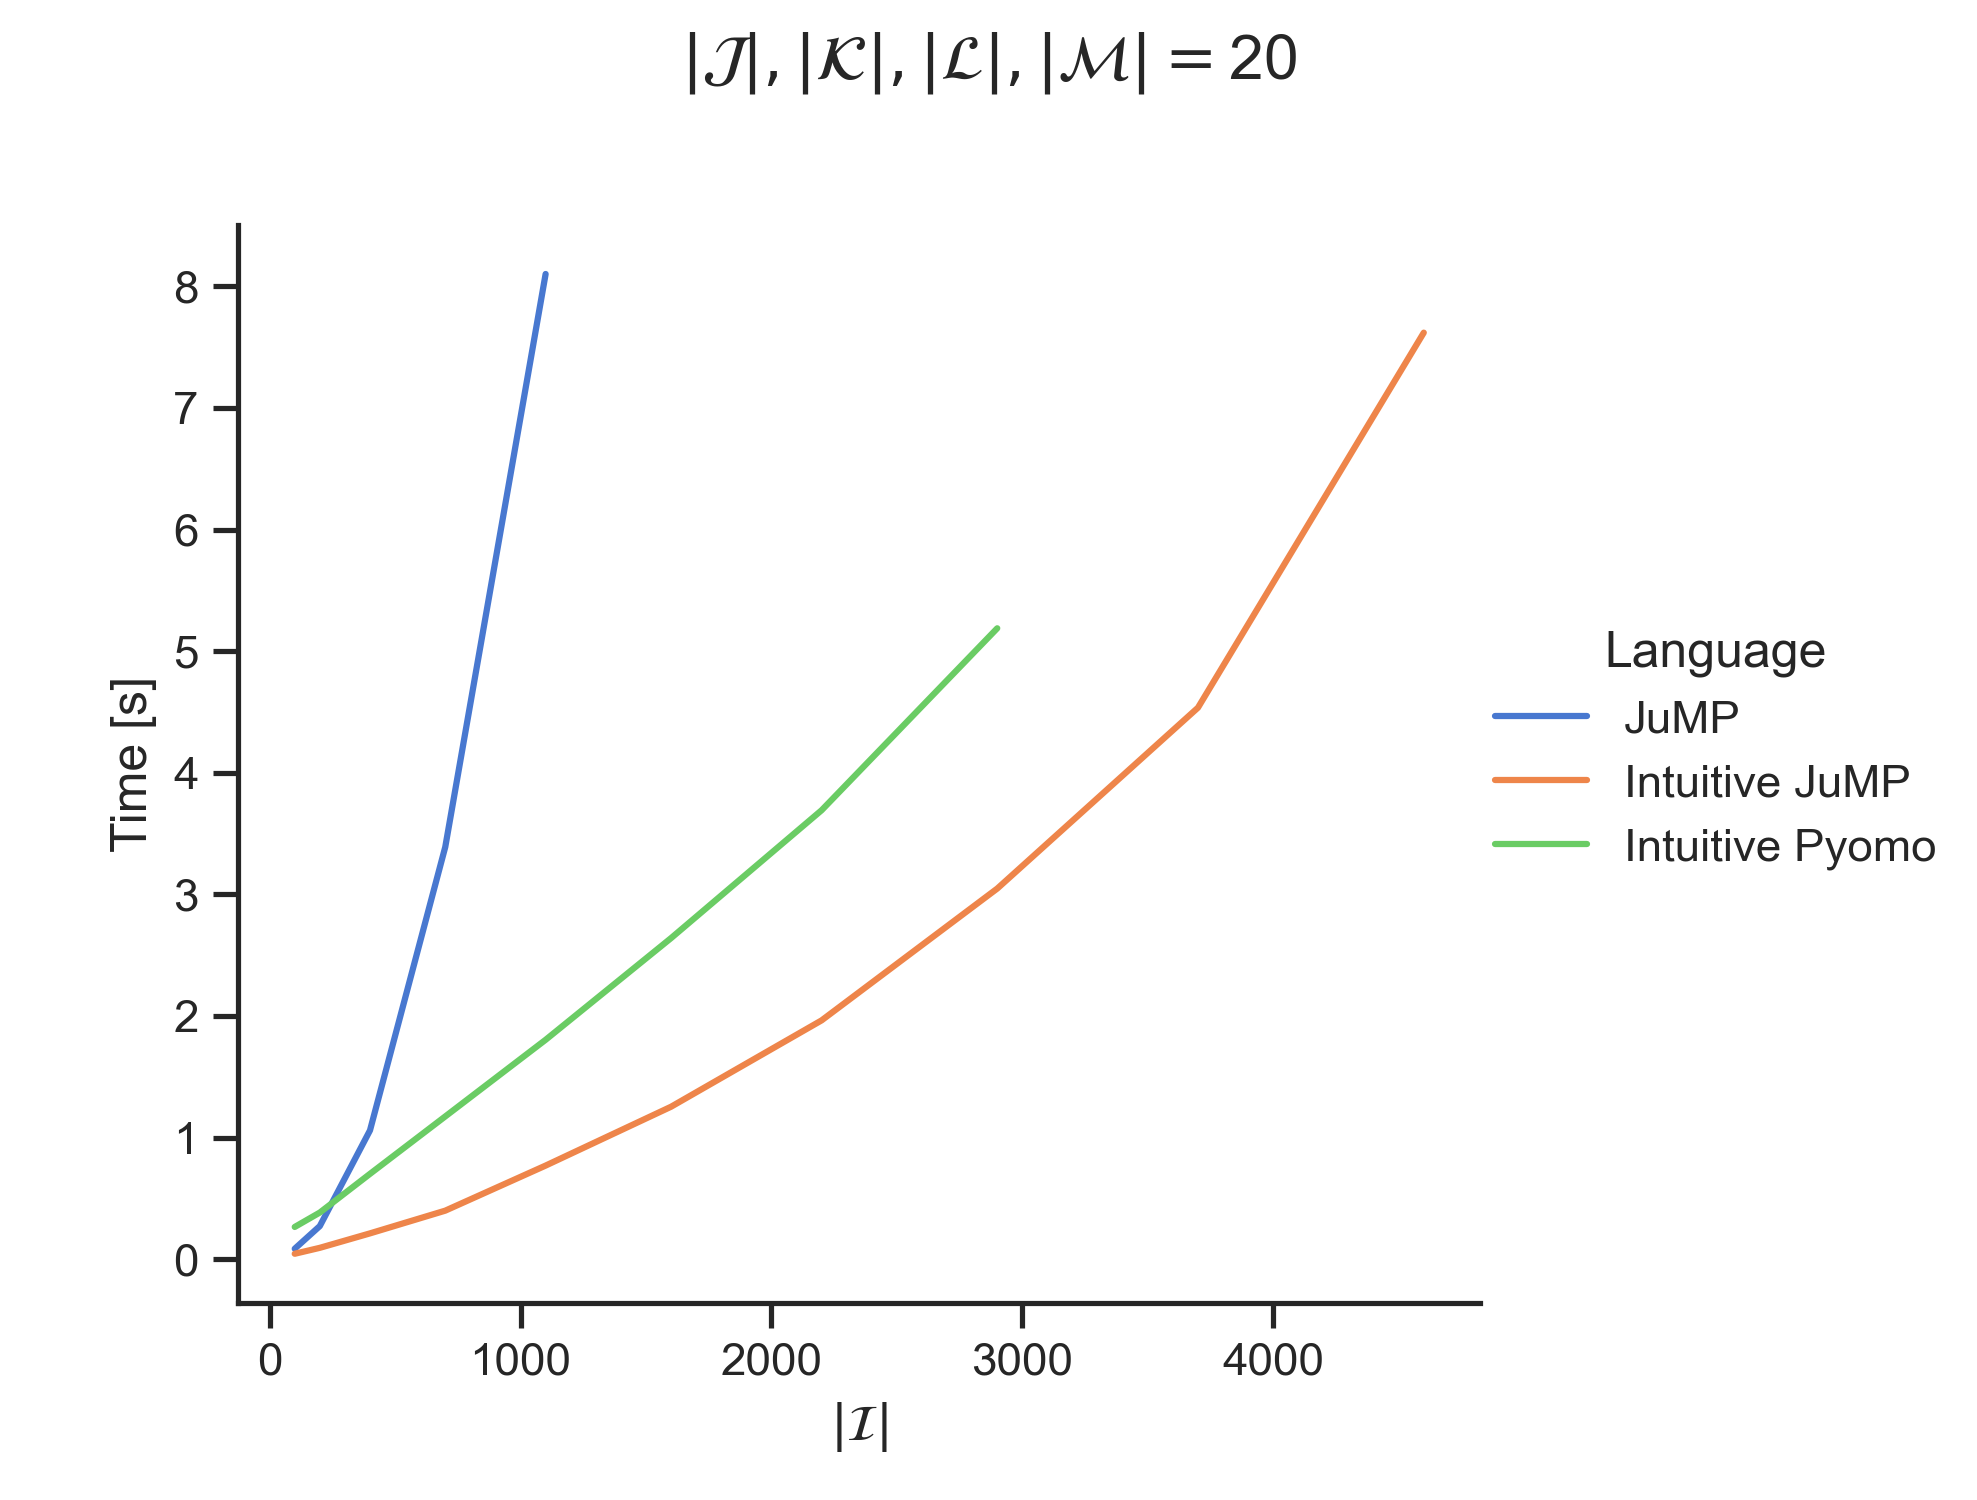
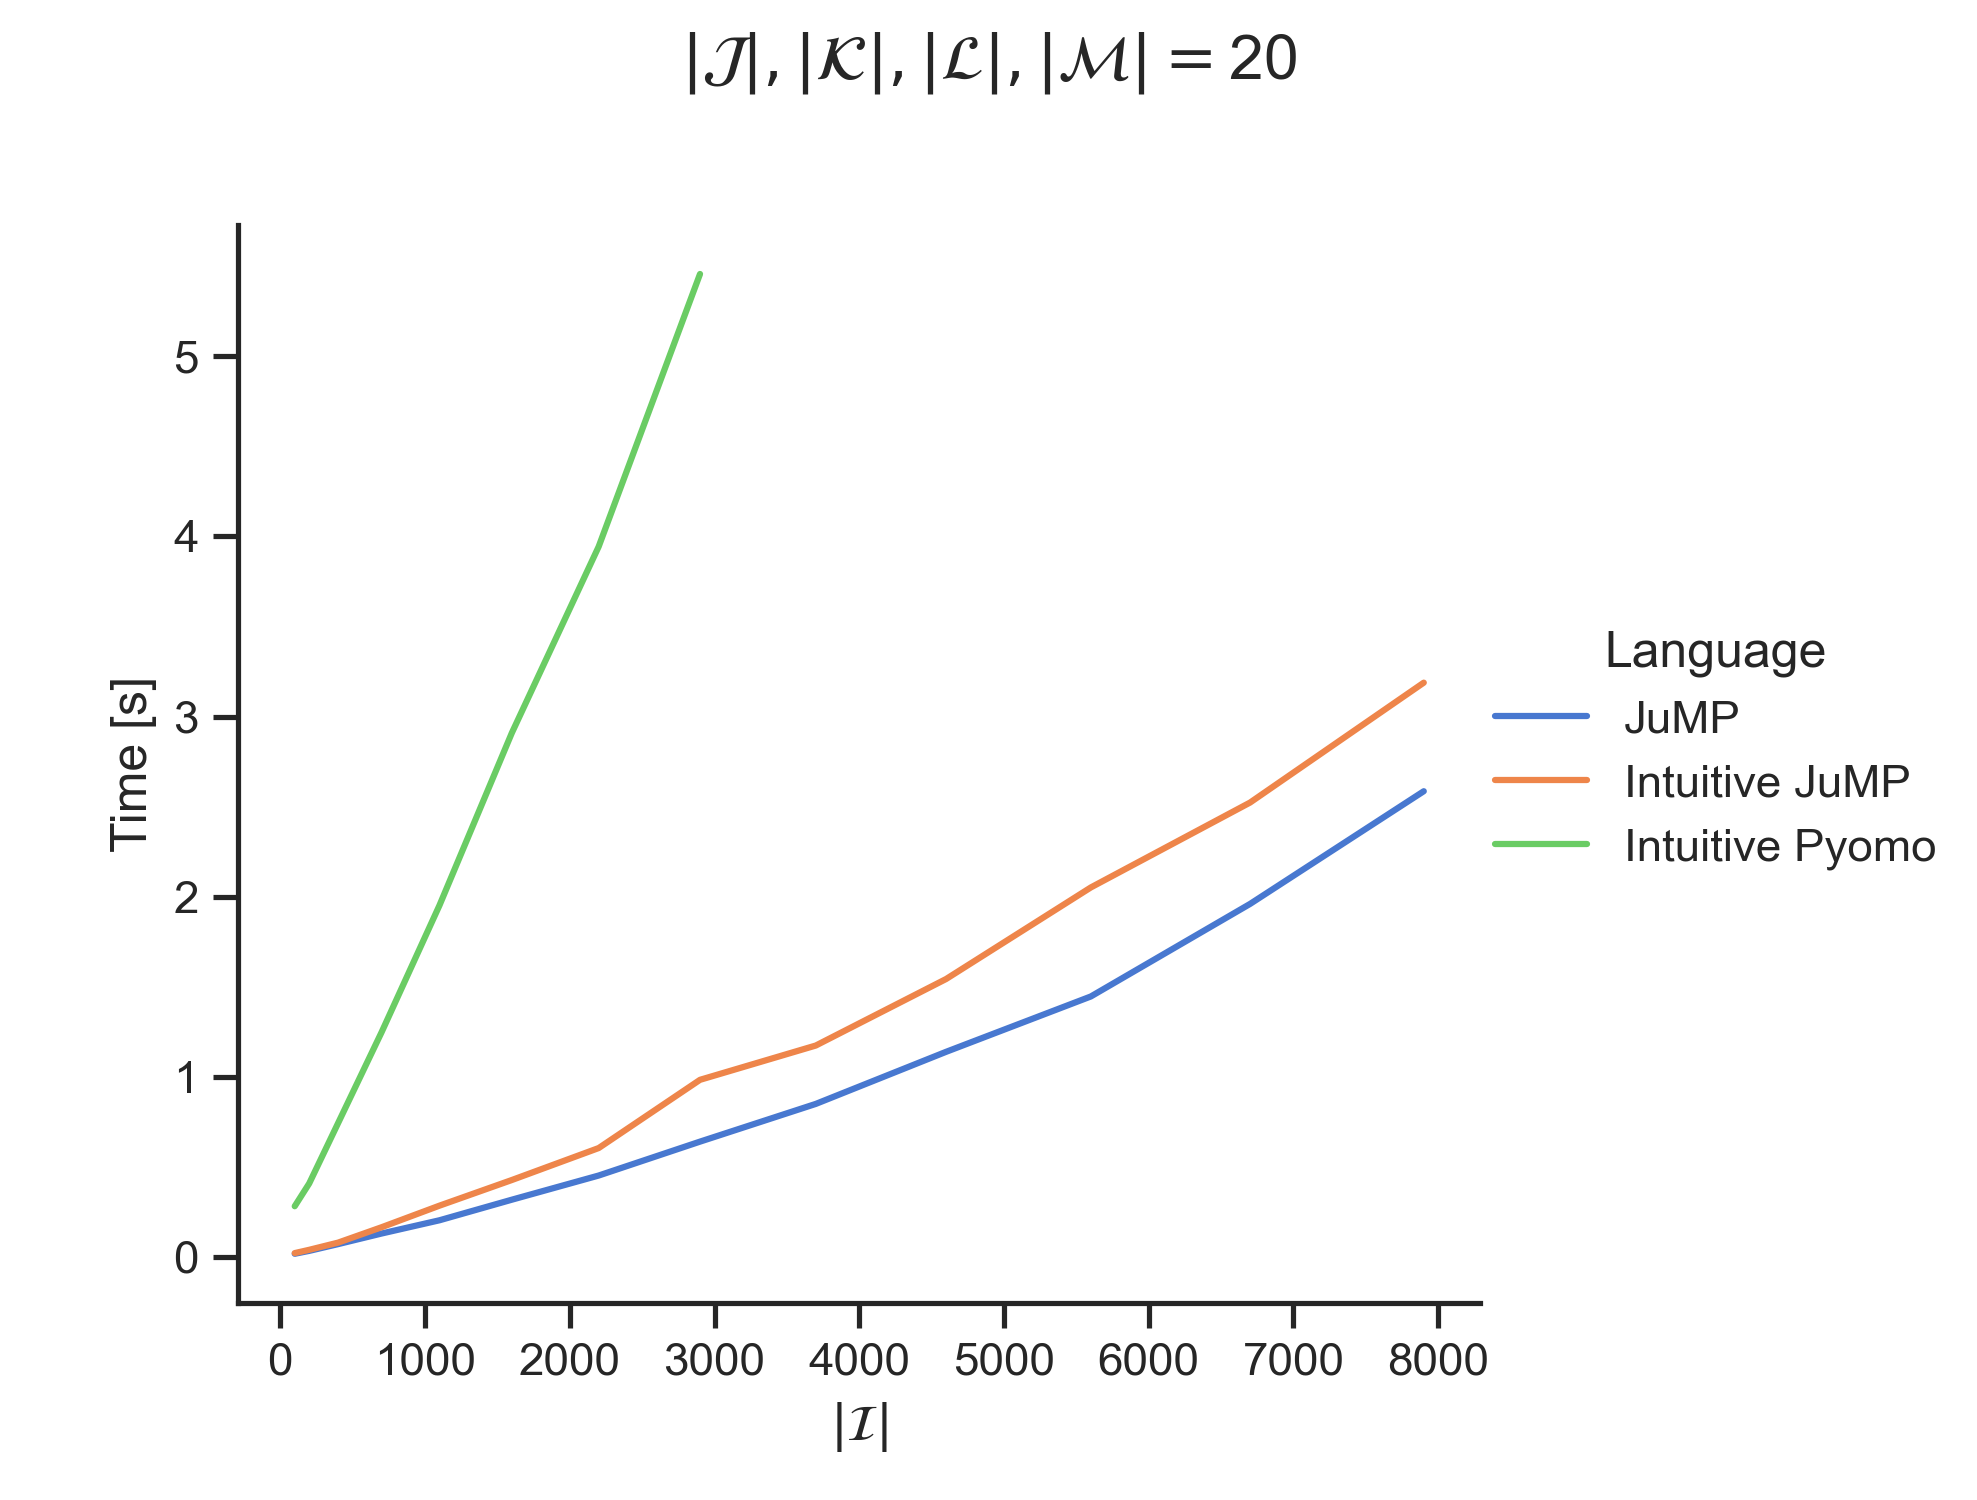
added odows suggestions https://github.com/justine18/performance_experiment/pull/1#issuecomment-1560844185

diff --git a/main_IJKLM.py b/main_IJKLM.py
@@ -80,7 +80,7 @@ def run_experiment(
             print_log_message(language="Pyomo", n=n, df=df_pyomo)
 
     # JuMP
-    df_jump, df_intuitive_jump = run_julia("IJKLM", solve, repeats, number, time_limit)
+    df_jump, df_intuitive_jump = run_julia(solve, repeats, number, time_limit)
 
     # merge all results
     df = pd.concat(
@@ -110,5 +110,5 @@ if __name__ == "__main__":
             solve=solve,
             repeats=2,
             number=1,
-            time_limit=30,
+            time_limit=5,
         )
